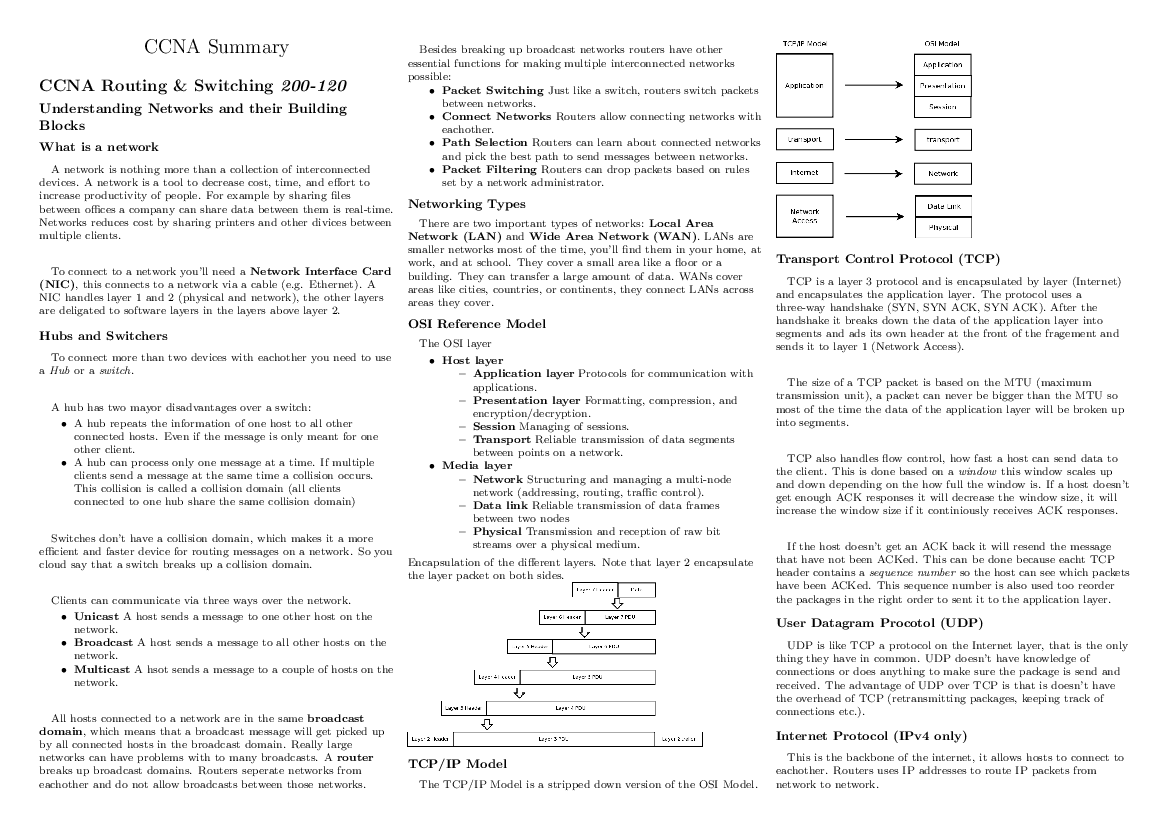
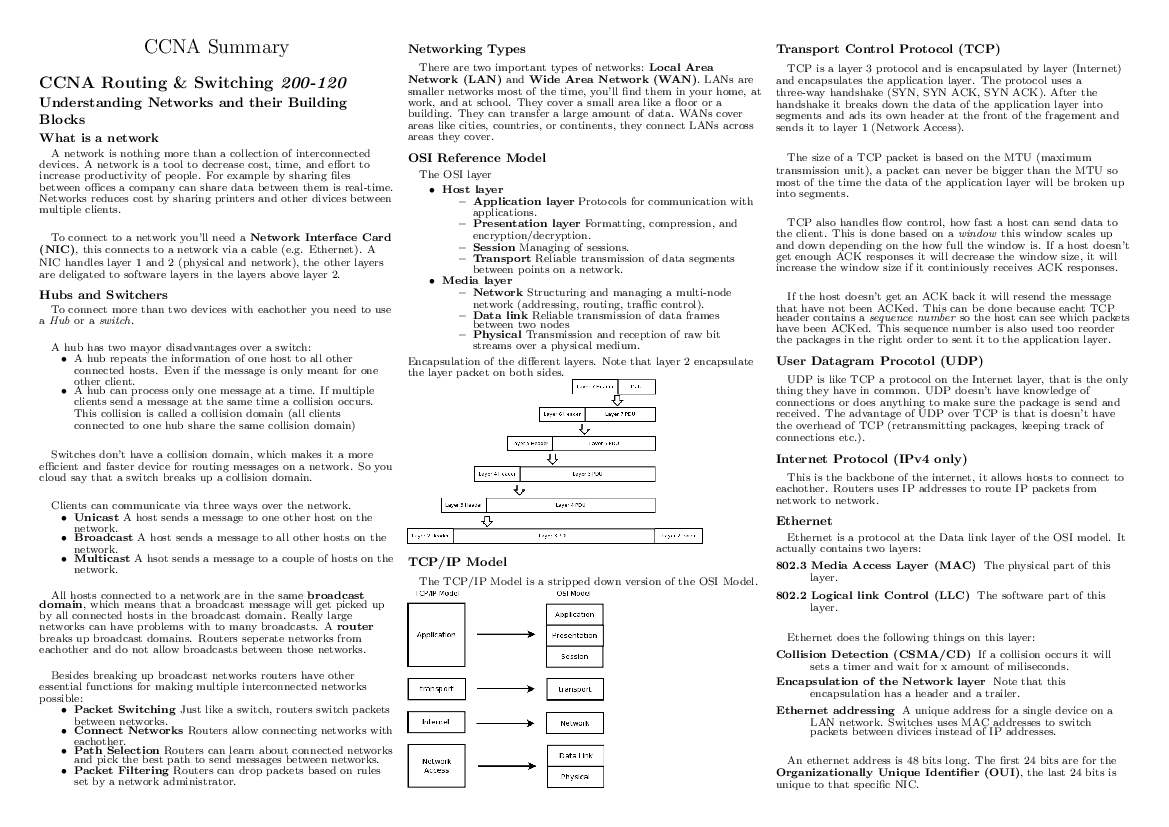
Updated styling

Changed region(s): [[0.0308, 0.0302, 0.9547, 0.9674]]

diff --git a/summary.tex b/summary.tex
@@ -79,6 +79,9 @@
 % Less padding for lists
 \setlist[itemize]{noitemsep, topsep=0pt}
 
+% Less padding
+\setlength{\baselineskip}{0pt}
+
 % multicol parameters
 % These lengths are set only within the two main columns
 %\setlength{\columnseprule}{0.25pt}
@@ -251,7 +254,7 @@ In the simplest terms, IP Routing is the process of moving packets from its sour
 	\item[Outgoing interface]  Identifies the exit interface to use when forwarding packets to the destination network
 \end{description}
 \paragraph{}
-For remote connected entries the RIB looks like this:  
+For remote connected entries the RIB looks like this:
 \paragraph{}For remote connected entries the RIB looks like this:
  \begin{description}
 	\item[Route Source] Identifies how the route was learned
@@ -261,11 +264,11 @@ For remote connected entries the RIB looks like this:
 	\item[Outgoing interface]  Identifies the exit interface to use when forwarding packets to the destination network
 \end{description}
 \paragraph{}
-There are multiple Route Sources each letter has a different mean: 
+There are multiple Route Sources each letter has a different mean:
 \begin{description}
-	\item[S] Static Route 
+	\item[S] Static Route
 	\item[D] Dynamically learned using EIGRP
-	\item[O] Dynamically learned using OSPF 
+	\item[O] Dynamically learned using OSPF
 	\item[R] Dynamically learned using RIP
 	\item[L] Identifies that this is a local route
 	\item[C] Identifies a directly connected network
@@ -273,7 +276,7 @@ There are multiple Route Sources each letter has a different mean:
 \paragraph{}
 There are four types of static routes:
 \begin{description}
-	\item[Standard] Static Route are useful when connecting to a specific remote network  
+	\item[Standard] Static Route are useful when connecting to a specific remote network
 	\item[Default]  Static Route matches all packets and is used by the router if a package does not match a more specific route.
 	\item[Summary] Static Route to reduce the number of routing table entries, multiple static routes can be summarized if network is contigious and all use the same exit interface or next-hop ip
 	\item[Floating] static routes are static routes that are used to provide a backup path to a primary static or dynamic route, in the event of a link failure.To accomplish this, the floating static route is configured with a higher administrative distance than the primary route.
